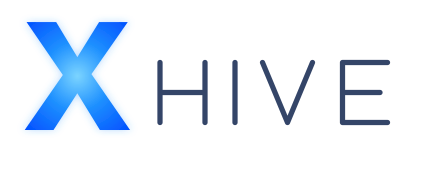
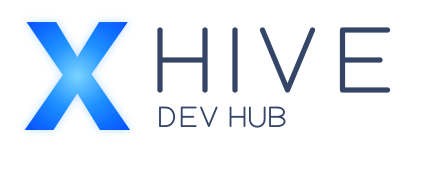
feat(brand): adopt HIVE and DEV HUB identity

diff --git a/output/branding/brand-notes.md b/output/branding/brand-notes.md
@@ -1,6 +1,6 @@
 # xDev Hive identity
 
-The selected identity is **X + HIVE**, extending the [xDev brand](https://xdev.asia/brand/). The original blue X is retained and HIVE uses custom uppercase SVG paths with the same stroke width, cap height and rounded joins as DEV.
+The selected identity is **X + HIVE / DEV HUB**, extending the [xDev brand](https://xdev.asia/brand/). The original blue X is retained and HIVE uses custom uppercase SVG paths with the same stroke width, cap height and rounded joins as DEV. HIVE is the primary name at y=12; DEV HUB is the smaller descriptor at y=43, using the same .31 scale and 2.4-unit stroke as AI Studio’s STUDIO line.
 
 ## Production assets
 
@@ -17,4 +17,8 @@ The original X uses `Space Grotesk, Inter, sans-serif` with weight 600. Install 
 
 ## Exploration archive
 
-`xdev-hive-dev-stack-*` and `xdev-hive-comparison.*` document the alternative DEV / HIVE layout. `xdev-hive-logo-v1.png` and `logo-prompt.txt` are the initial amber concept, superseded by the selected blue identity. These are design references, not production logos.
+`xdev-hive-dev-stack-*`, `xdev-hive-studio-style-*` and `xdev-hive-comparison.*` document the alternative DEV / HIVE layout. `xdev-hive-logo-v1.png` and `logo-prompt.txt` are the initial amber concept, superseded by the selected blue identity. These are design references, not production logos.
+
+## Selected layout — 2026-09-30
+
+The user selected **HIVE / DEV HUB** to make the development focus explicit. The original single-line HIVE and DEV / HIVE layouts are superseded. The primary name remains xDev Hive in written content.

diff --git a/README.md b/README.md
@@ -1,6 +1,6 @@
 # xDev Hive
 
-Bộ nhận diện **X + HIVE**: [logo, màu sắc và hướng dẫn sử dụng](output/branding/brand-notes.md).
+Bộ nhận diện **X + HIVE / DEV HUB**: [logo, màu sắc và hướng dẫn sử dụng](output/branding/brand-notes.md).
 
 Tài liệu, memory và task dùng chung cho nhiều coding agent (Claude Code, Codex, Gemini CLI, Cursor…) chạy trên nhiều gói subscription khác nhau.
 
